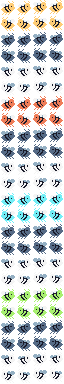
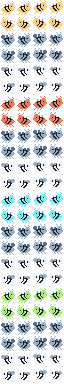
Sweet Sam: smoked bees turn bright silver so they stand out (#309)

diff --git a/src/sweet-sam/art.ts b/src/sweet-sam/art.ts
@@ -370,11 +370,11 @@ export const beeEyes: readonly (readonly string[])[] = [
 /** The direction each frame of bee-eyes.png faces: `beeEyes` with the left look added second. */
 export const beeEyesOrder: readonly Direction[] = ["RIGHT", "LEFT", "UP", "DOWN"];
 
-/** A sleepy bee: grey, wings dull, eyes shut. */
-export const sleepyLook = { body: "m", wings: "l" } as const;
+/** A sleepy bee: bright silver, grey wings with white veins, eyes shut. */
+export const sleepyLook = { body: "l", wings: "m", veins: "w" } as const;
 
-/** A sleepy bee about to wake: pale, eyes wide open. Alternates with the sleepy look. */
-export const wakingLook = { body: "w", wings: "l" } as const;
+/** A sleepy bee about to wake: white, silver wings with grey veins, eyes wide open. Alternates with the sleepy look. */
+export const wakingLook = { body: "w", wings: "l", veins: "m" } as const;
 
 /** Honey drop and honey pot cells: 8×12, 4 frames, as in the Go game. */
 export const itemCellWidth = 8;

diff --git a/scripts/gen-sweet-sam-art.ts b/scripts/gen-sweet-sam-art.ts
@@ -225,7 +225,7 @@ export function beeFrame(kind: SweetSamEnemyKind, beat: number, look: "awake" | 
   } else {
     const colours = look === "sleepy" ? sleepyLook : wakingLook;
     const [ex, ey] = beeEye;
-    out = recolour(rows, { y: colours.body, w: colours.wings });
+    out = recolour(rows, { y: colours.body, w: colours.wings, l: colours.veins });
     // Sleepy: the eye shut, a lid across the pupil. Waking: the eye wide, the pupil twice as tall.
     out =
       look === "sleepy"
